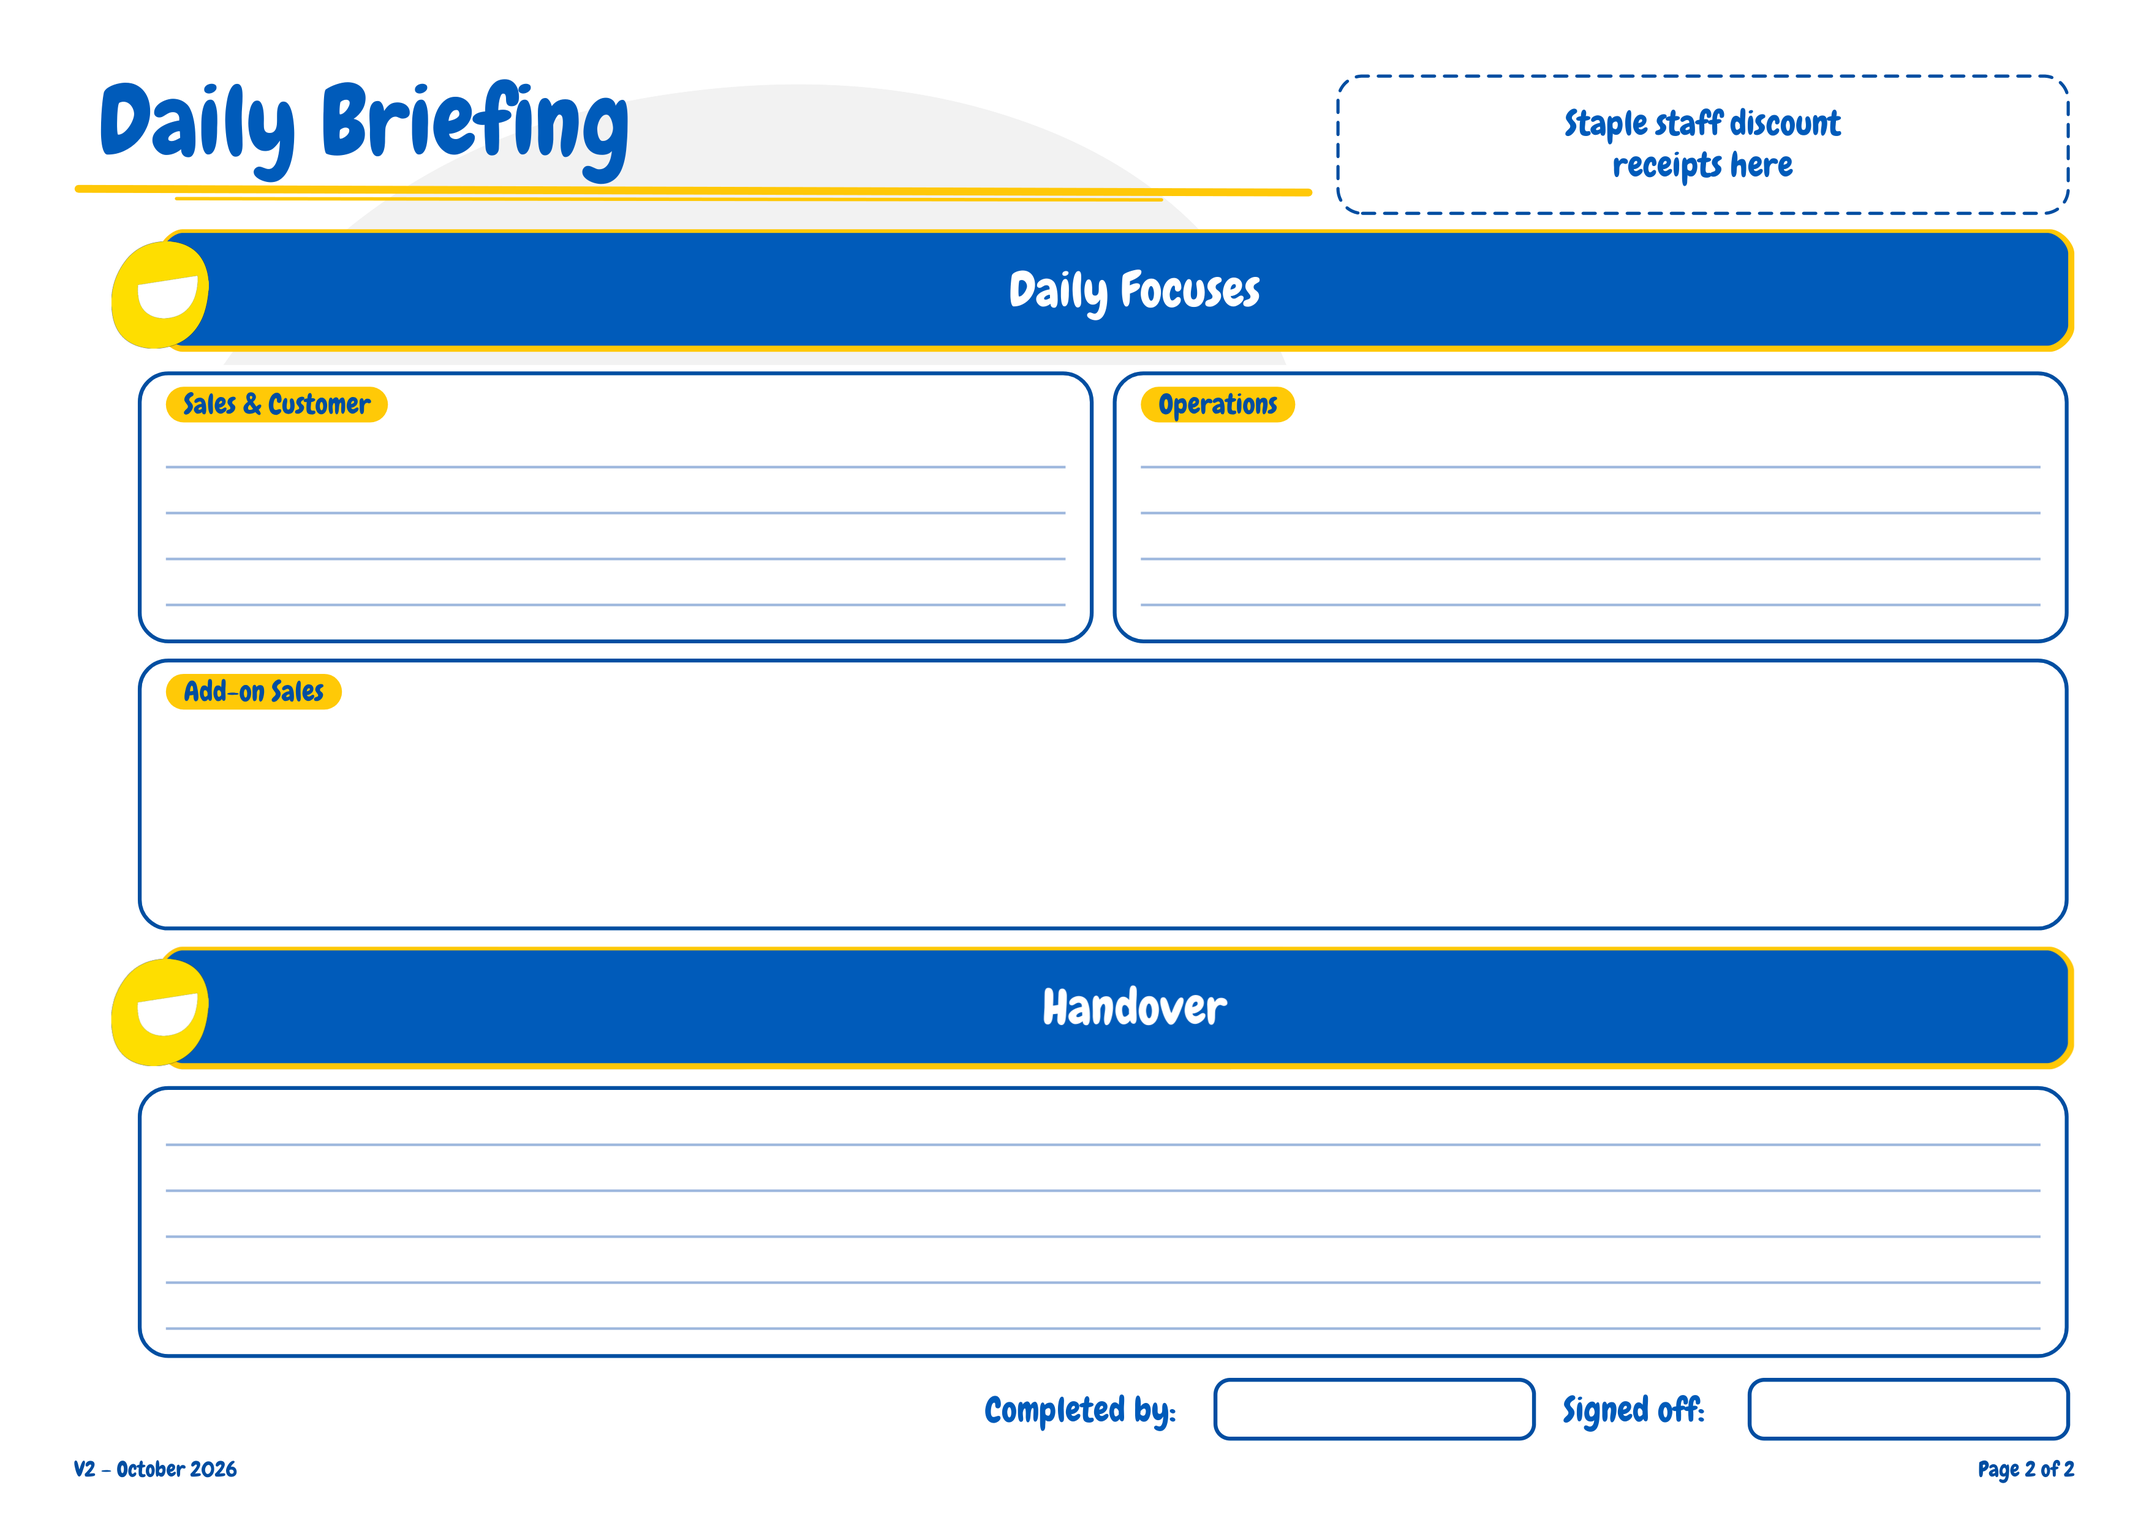
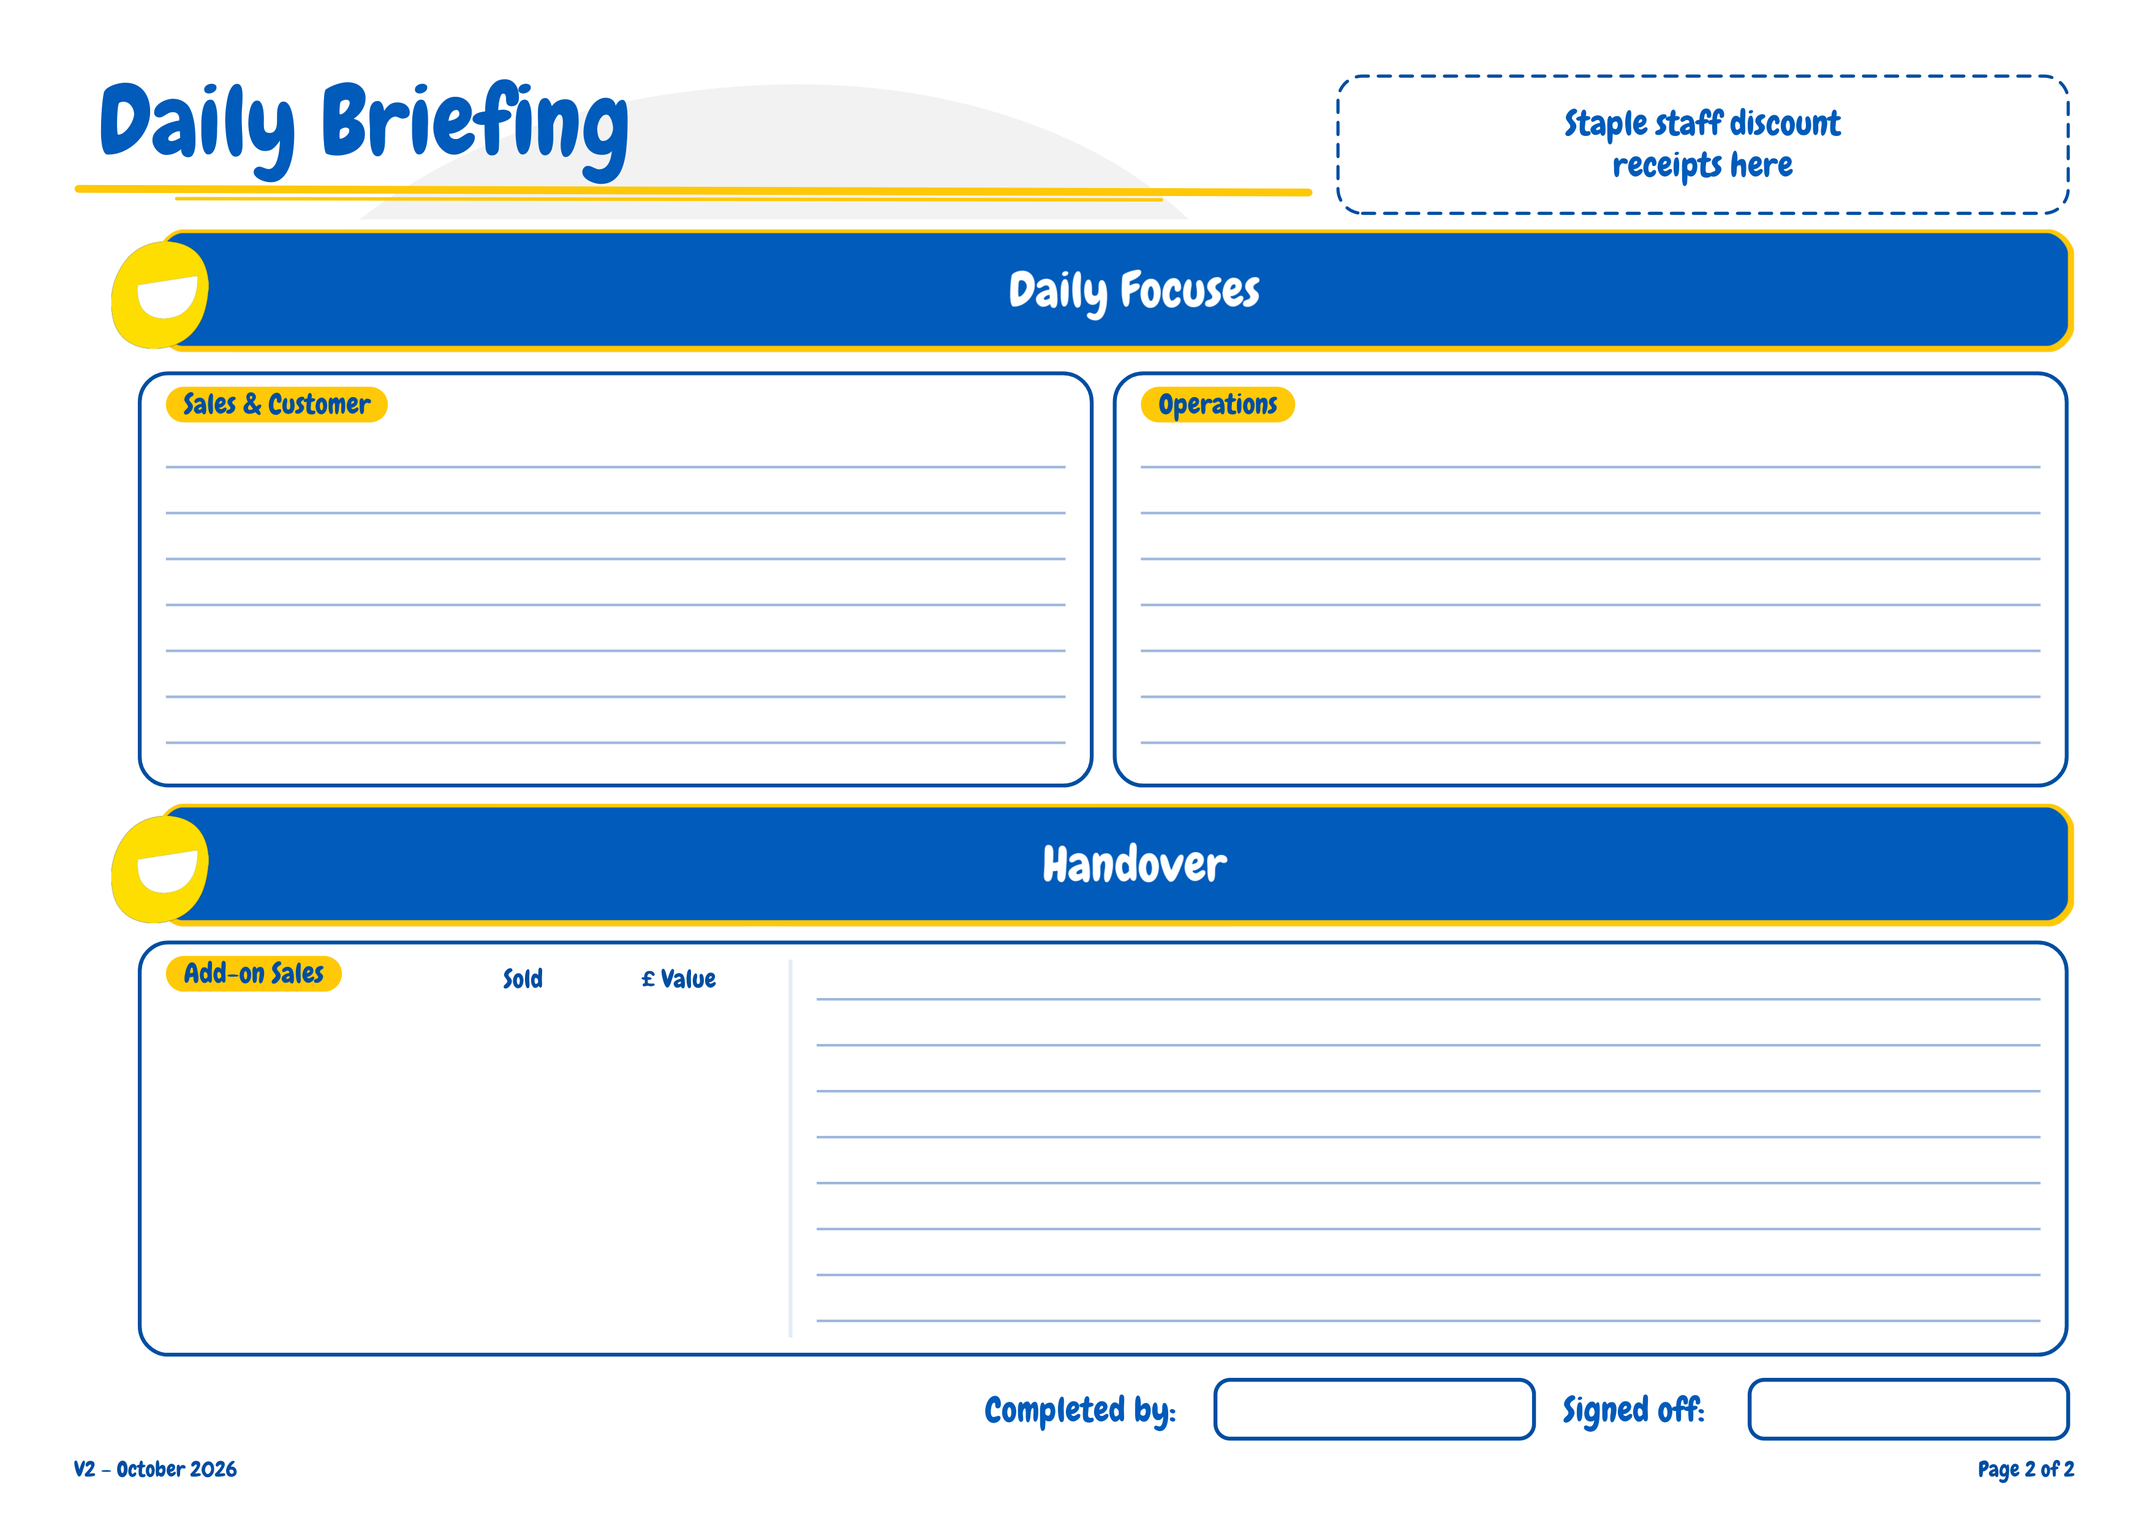
Daily Briefing page 2: add-on totals inside Handover (S3)
Owner chose totals only: the top four add-ons with Sold and £ and a Total row, where
the Stamp Count was. Sales & Customer and Operations get 7 lines each.

Claude-Session: https://claude.ai/code/session_017ALFqJBzbwPHc6VJM44G2N

Changed region(s): [[0.0311, 0.4035, 0.9632, 0.9]]

diff --git a/src/CardFactory.ProfitLoss.App/Services/DailyBriefingSheet.cs b/src/CardFactory.ProfitLoss.App/Services/DailyBriefingSheet.cs
@@ -18,7 +18,7 @@ namespace CardFactory.ProfitLoss.App.Services;
 ///
 /// Filled by the app: Day, Date, Sales/ABV/AUB target and actual, the hourly rows, Voids,
 /// Refunds and Staff discounts (Qty and £ Value), Team Performance (up to 8 people), and on
-/// page 2 the Add-on Sales box (owner, 16 Nov 2026, concept G1).
+/// page 2 the Add-on Sales totals (owner, 16 Nov 2026, concept S3).
 /// Left for the team: the checklist, every Initials box, and the rest of page 2.
 ///
 /// Design (chosen 14 Oct 2026, "C1 + D1"): figures in Fredoka SemiBold, CfDeepBlue; boxes the
@@ -59,16 +59,17 @@ public static class DailyBriefingSheet
     public sealed record Data(DateTime Date, Measure Sales, Measure Abv, Measure Aub, IReadOnlyList<Hour> Hours,
         Reports? Reports, IReadOnlyList<Person> Team, int TeamNotShown)
     {
-        /// <summary>Stamps sold, for the 1st / 2nd / Large note beside Add-on Sales; null when not retrieved.</summary>
+        /// <summary>Stamps sold (1st / 2nd / Large); null when not retrieved. No longer printed - stamps
+        /// are an add-on on page 2 now.</summary>
         public StampsSold? Stamps { get; init; }
 
-        /// <summary>Page 2's Add-on Sales: the top four tracked add-ons and everyone who sold
-        /// them; null when not retrieved (the box is left empty).</summary>
+        /// <summary>Page 2's Add-on Sales: the four tracked add-ons that sold the most (totals only
+        /// are printed); null when not retrieved (left empty).</summary>
         public AddOnSalesSummary? AddOns { get; init; }
     }
 
     /// <summary>Add-ons on page 2 (owner, 16 Nov 2026): the four that sold the most.</summary>
-    public const int AddOnColumns = 4, AddOnPeople = 4;
+    public const int AddOnColumns = 4;
 
     /// <summary>The day's figures as the app holds them. Call only in single-day mode.</summary>
     /// <param name="addOns">The add-ons tracked in the Add-on Sales tab.</param>
@@ -231,88 +232,53 @@ public static class DailyBriefingSheet
     public static bool BeatsTarget(decimal hourly, Measure measure) =>
         measure.Target is { } target && hourly > target;
 
-    // Page 2, Add-on Sales (owner, 16 Nov 2026, concept G1). The Stamp Count is gone - stamps are
-    // one of the add-ons now - and page 2 was drawn again (Assets/DailyBriefing-2.png): Sales &
-    // Customer and Operations, Add-on Sales and Handover all the same height. In the Add-on Sales
-    // box (x 54.0-810.4, y 258.0-364.4 pt) the app writes a small table: one row per person,
-    // most add-ons first (four people, then the Team row), one column for each of the four
-    // add-ons that sold the most, then Total and £ Value. Green = whoever sold the most of that
-    // add-on (the Branch marks' green), the Team row yellow. Room for more is noted at the side.
-    private const double AddOnNameX = 65.0, AddOnNameWidth = 130.0, AddOnFirstX = 199.0, AddOnStep = 58.0,
-        AddOnWidth = 55.0, AddOnRowsTop = 294.5, AddOnRowHeight = 11.5, AddOnRowStep = 13.5, AddOnNoteX = 575.0;
+    // Page 2, Add-on Sales (owner, 16 Nov 2026, concept S3, totals only). The Stamp Count is gone -
+    // stamps are one of the add-ons now - and page 2 was drawn again (Assets/DailyBriefing-2.png):
+    // Sales & Customer and Operations (7 lines each), then Handover, whose left part (where the
+    // Stamp Count was) holds Add-on Sales: the printed "Add-on Sales" label and "Sold" / "£ Value"
+    // headings, and the app writes one row per add-on - the four that sold the most - and a Total
+    // row in yellow. No names: who sold what is in the app's Add-on Sales tab. Nothing is written
+    // when add-ons weren't read.
+    private const double AddOnLeft = 65.0, AddOnSoldX = 182.0, AddOnSoldWidth = 46.0, AddOnValueX = 232.0,
+        AddOnValueWidth = 68.0, AddOnFirstRow = 394.4, AddOnRowStep = 24.0, AddOnRowHeight = 18.0;
 
     private static void FillPageTwo(Canvas c, Data d)
     {
         if (d.AddOns is not { } addOns || addOns.Columns.Count == 0) return;
         var uk = CultureInfo.GetCultureInfo("en-GB");
 
-        var columns = addOns.Columns.Count;
-        double ColumnX(int i) => AddOnFirstX + AddOnStep * i;
-        var totalX = ColumnX(columns);
-        var valueX = ColumnX(columns + 1);
-
-        // Headings: the add-on's name, up to two lines, sitting just above the rows.
-        for (var i = 0; i < columns; i++)
-            Heading(c, ColumnX(i), AddOnWidth, addOns.Columns[i].Item.Name);
-        Heading(c, totalX, AddOnWidth, "Total");
-        Heading(c, valueX, AddOnWidth + 11, "£ Value");
-
-        var people = addOns.People.Take(AddOnPeople).ToList();
-        for (var p = 0; p < people.Count; p++)
+        var rows = addOns.Columns.Take(AddOnColumns).ToList();
+        for (var r = 0; r < rows.Count; r++)
         {
-            var y = AddOnRowsTop + AddOnRowStep * p;
-            var person = people[p];
-            Box(c, AddOnNameX, y, AddOnNameX + AddOnNameWidth, y + AddOnRowHeight, person.Name, 7.6, left: true, cornerPt: 4.5);
-            for (var i = 0; i < columns; i++)
-            {
-                var quantity = person.Quantities[i];
-                var best = quantity > 0 && quantity == addOns.Columns[i].TopQuantity;
-                Box(c, ColumnX(i), y, ColumnX(i) + AddOnWidth, y + AddOnRowHeight, quantity.ToString(uk), 8.5,
-                    fill: best ? Green : null, ink: best ? Brushes.White : null, cornerPt: 4.5);
-            }
-            Box(c, totalX, y, totalX + AddOnWidth, y + AddOnRowHeight, person.Total.ToString(uk), 8.5, cornerPt: 4.5);
-            Box(c, valueX, y, valueX + AddOnWidth + 11, y + AddOnRowHeight, Money(person.Value), 8, cornerPt: 4.5);
+            var y = AddOnFirstRow + AddOnRowStep * r;
+            Name(c, AddOnLeft + 1, y + 3.5, AddOnSoldX - AddOnLeft - 6, rows[r].Item.Name);
+            Box(c, AddOnSoldX, y, AddOnSoldX + AddOnSoldWidth, y + AddOnRowHeight, rows[r].Quantity.ToString(uk), 13, cornerPt: 6);
+            Box(c, AddOnValueX, y, AddOnValueX + AddOnValueWidth, y + AddOnRowHeight, Money(rows[r].Value), 11.5, cornerPt: 6);
         }
 
-        var teamY = AddOnRowsTop + AddOnRowStep * people.Count;
-        Box(c, AddOnNameX, teamY, AddOnNameX + AddOnNameWidth, teamY + AddOnRowHeight, "Team", 7.6, left: true, fill: Yellow, cornerPt: 4.5);
-        for (var i = 0; i < columns; i++)
-            Box(c, ColumnX(i), teamY, ColumnX(i) + AddOnWidth, teamY + AddOnRowHeight, addOns.Columns[i].Quantity.ToString(uk), 8.5, fill: Yellow, cornerPt: 4.5);
-        Box(c, totalX, teamY, totalX + AddOnWidth, teamY + AddOnRowHeight, addOns.TotalQuantity.ToString(uk), 8.5, fill: Yellow, cornerPt: 4.5);
-        Box(c, valueX, teamY, valueX + AddOnWidth + 11, teamY + AddOnRowHeight, Money(addOns.TotalValue), 8, fill: Yellow, cornerPt: 4.5);
-
-        var notes = new List<string> { "Green = most sold of that add-on" };
-        if (addOns.Columns.Any(col => col.Item.IsStamps) && d.Stamps is { } stamps)
-            notes.Add($"Stamps: 1st {stamps.FirstClass} · 2nd {stamps.SecondClass} · Large {stamps.Large}");
-        var notShown = addOns.People.Count - people.Count;
-        if (notShown > 0)
-            notes.Add($"+{notShown} more {(notShown == 1 ? "person" : "people")} not shown - top {AddOnPeople} by add-ons");
-        for (var n = 0; n < notes.Count; n++)
-            PlaceText(c, AddOnNoteX, 272 + 9.5 * n, notes[n], Figures, 7.5, Navy);
+        var totalY = AddOnFirstRow + AddOnRowStep * rows.Count;
+        Box(c, AddOnLeft, totalY, AddOnSoldX - 4, totalY + AddOnRowHeight, "Total", 11.5, left: true, fill: Yellow, cornerPt: 6);
+        Box(c, AddOnSoldX, totalY, AddOnSoldX + AddOnSoldWidth, totalY + AddOnRowHeight,
+            rows.Sum(col => col.Quantity).ToString(uk), 13, fill: Yellow, cornerPt: 6);
+        Box(c, AddOnValueX, totalY, AddOnValueX + AddOnValueWidth, totalY + AddOnRowHeight,
+            Money(rows.Sum(col => col.Value)), 11.5, fill: Yellow, cornerPt: 6);
     }
 
-    /// <summary>A column heading in the sheet's lettering, centred, up to two lines, its last
-    /// line sitting just above the first row.</summary>
-    private static void Heading(Canvas c, double xPt, double widthPt, string text)
+    /// <summary>An add-on's name in the sheet's lettering, cut short with "…" if it is too long.</summary>
+    private static void Name(Canvas c, double xPt, double topPt, double widthPt, string text)
     {
         var block = new TextBlock
         {
             Text = text,
             FontFamily = Chewy,
-            FontSize = 8 * Pt,
+            FontSize = 12 * Pt,
             Foreground = Navy,
             Width = widthPt * Pt,
-            TextAlignment = TextAlignment.Center,
-            TextWrapping = TextWrapping.Wrap,
             TextTrimming = TextTrimming.CharacterEllipsis,
-            MaxHeight = 2 * 8 * 1.2 * Pt,
-            LineHeight = 8 * 1.15 * Pt,
-            LineStackingStrategy = LineStackingStrategy.BlockLineHeight,
+            TextWrapping = TextWrapping.NoWrap,
         };
-        block.Measure(new Size(widthPt * Pt, double.PositiveInfinity));
-        var height = Math.Min(block.DesiredSize.Height, block.MaxHeight);
         Canvas.SetLeft(block, xPt * Pt);
-        Canvas.SetTop(block, (AddOnRowsTop - 2.0) * Pt - height);
+        Canvas.SetTop(block, topPt * Pt);
         c.Children.Add(block);
     }
 

diff --git a/docs/STATUS.md b/docs/STATUS.md
@@ -13,7 +13,7 @@ or released without the owner's say-so. A push to `main` starts a build.
 | **Add-on Sales tab (concept T1).** A fourth header tab. Left, "Items to track": type a SKU (or a name) and pick from a drop-down of items Flooid has listed on this till, or press Enter / + Add; tracked add-ons are listed with ✕ to remove, kept in `%APPDATA%\CardFactory-ProfitLoss\add-ons.json` (`Services/AddOnSettings`; names seen in `add-on-items-seen.json`, at most 20,000). **Stamps** is one ready-made add-on covering every stamp (from the Stamps report, Christmas stamps left out as on the old Stamp Count); it is there to start with. Right: a card per add-on (number sold, £, "★ Most: name · n") and a table by person (one column per add-on, Items, £ Value, Team row; green = most of that add-on). The tab's button is Generate reports, as on Reports. | Not yet built | Add a SKU; Generate reports; the cards and table fill in; the list is still there after a restart |
 | **Add-on figures from Item Sales By Operator with every item** (test build 43884986713 on the till 16 Nov: works - Stamps 1, Carrier Bag 21 / £5.25, by person) - Product Group and Product left blank (owner's save 16 Nov, page 19: "Product: All", "Product Groups: All", under 2 s on the till). `FlooidView.FetchAllItemSalesHtmlAsync`: the Item Sales criteria with no level and no picker; the product group field and Product box are emptied. Read by `AllItemSalesReportParser` (the Gift Cards reading, the item lines being the same; refuses anything but "Product Groups: All" / "Product: All", so a group left over in Flooid's session can't pass as every item). `AddOnSalesSummary` adds up each tracked SKU per person (SKUs matched ignoring case, spaces and leading zeros). Pulled with Stamps: Generate reports, the Daily Briefing and the quiet fetch after signing in, on either sign-in ("AllItems" in the plan). Tests `AddOnSalesTests` with an anonymised cut of the real save (`ItemSalesAllItems_2026-11-16.html`). The criteria script was run on the owner's saved criteria page (Gift Cards group put in first): returns OK, group field emptied, Show Item Detail on, Next clicked. | Not yet built. Not known: whether Flooid keeps a product group chosen earlier in the same sign-in (the Gift Cards / Stamps pulls) - if so the report says so and add-ons show "not read" with the reason | Generate reports after a Refresh: add-ons come through; log "Item Sales By Operator — All items" |
 | **Header: store line under the Connected pill (concept H3).** Test build 43884986713 on the till (photo 16 Nov 14:35): the fourth tab ran into the store name ("Add-on Sales" over "Mon 16 Nov · updated"). The store and "updated" now sit on one line under the pill, right edge with it (Canvas 606-1206, top 67), so the centred tabs keep their full names. Concepts H1 (tabs closer), H2 (short names), H3 shown; owner chose H3. | Not yet built | Header: no overlap; store line readable under the pill |
-| **Daily Briefing page 2 drawn again (concept G1).** The Stamp Count is gone (stamps are an add-on now; the handwritten Start / Finish goes with it - owner told). Sales & Customer and Operations (4 lines each), a full-width **Add-on Sales** box and Handover (5 lines) are all the same height; new `Assets/DailyBriefing-2.png` drawn from the old one at 300 dpi. In the box the app writes the **four add-ons that sold the most** (owner: "no lower than four" = top 4; ties: the one added first), one row per person (four, most add-ons first, then the Team row in yellow), Total and £ Value; green = most of that add-on; at the side "Stamps: 1st · 2nd · Large" and "+N more people not shown". Nothing when add-ons weren't read (and "add-on sales" in the preview's missing note). | Not yet built | Concept G1 matched; print page 2 |
+| **Daily Briefing page 2 drawn again (concept S3, totals only).** The Stamp Count is gone (stamps are an add-on now; the handwritten Start / Finish goes with it - owner told). Sales & Customer and Operations get 7 lines each; Handover keeps its bar and box, and its left part (where the Stamp Count was) is **Add-on Sales**: printed label and "Sold" / "£ Value" headings, and the app writes one row per add-on - the **four that sold the most** (owner: "no lower than four" = top 4; ties: the one added first) - with the name (cut short with "…" if long), Sold and £, then a yellow Total row. No people on the sheet (owner, 16 Nov: "we don't need to have all team members… just the total amount that sold"); who sold what is in the app's tab. Handover writing lines to the right (7). New `Assets/DailyBriefing-2.png` drawn from the old one at 300 dpi. Nothing written when add-ons weren't read ("add-on sales" in the preview's missing note). Concepts on the way: G1 (by person, too small - test build), C1-C3, P1-P4, S1-S4; owner chose S3. | Not yet built | Check picture page2/s3-filled matched; print page 2 |
 
 ## Released - v1.0.9 (16 Nov 2026, owner's say-so), from branch `print-tidy`
 
